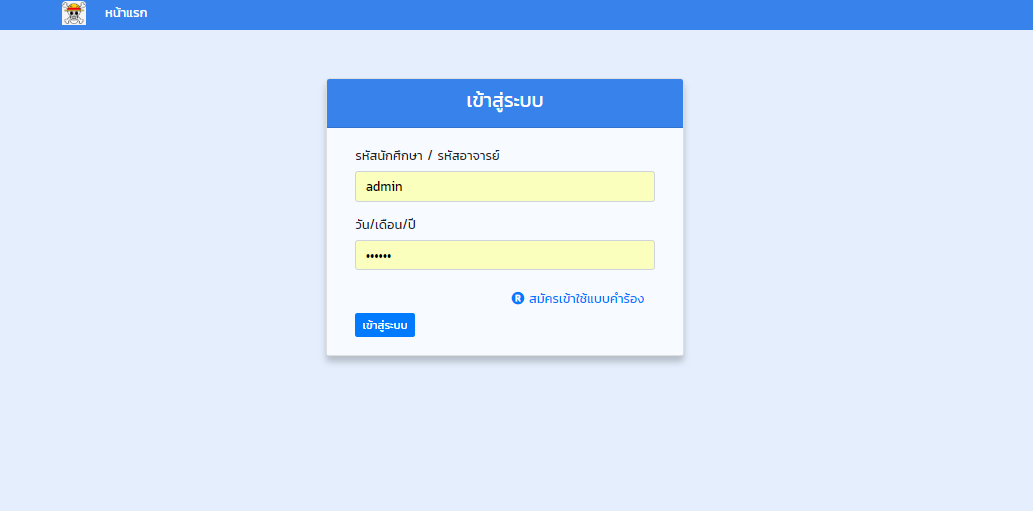
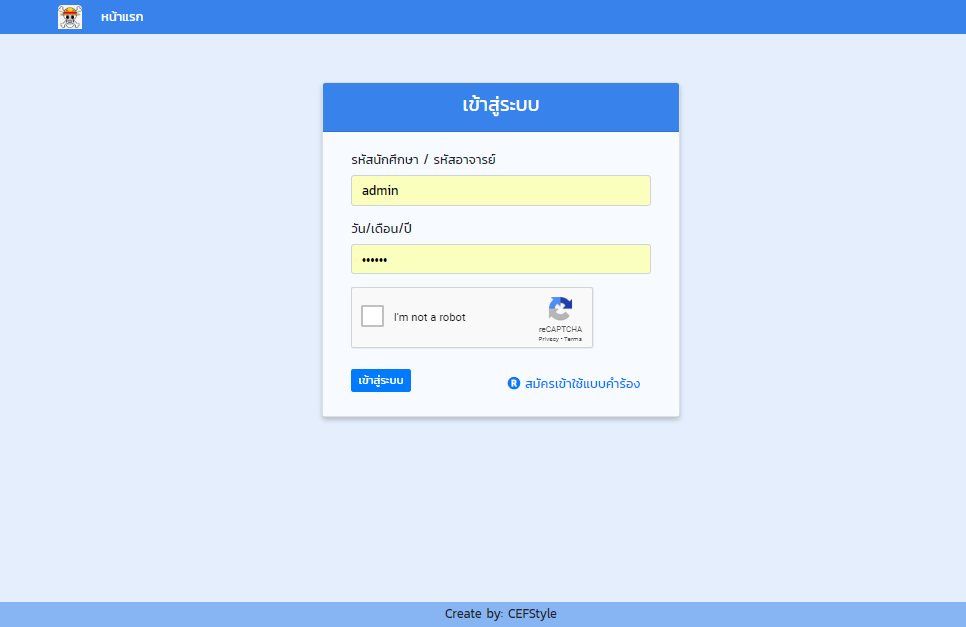
koa

Changed region(s): [[0.3106, 0.1174, 0.7143, 0.7339], [0.0, 0.9393, 1.0, 1.0], [0.0, 0.0, 1.0, 0.0587]]

diff --git a/index.php b/index.php
@@ -102,23 +102,36 @@
                                                 <form action="">
                                                     <div class="form-group">
                                                         <label for="user">รหัสนักศึกษา / รหัสอาจารย์</label>
-                                                        <input type="text" class="form-control" id="user" placeholder="User">
+                                                        <input type="text" class="form-control" id="user" placeholder="ID">
                                                     </div>
                                                     <div class="form-group">
                                                         <label for="Password1">วัน/เดือน/ปี</label>
                                                         <input type="password" class="form-control" id="Password1"
                                                             placeholder="Password">
                                                     </div>
-                                                    <!-- register modal -->
-                                                    <div class="text-right">
+                                                    <!-- check bot -->
+                                                    <div class="g-recaptcha" data-sitekey="6LfGSZIUAAAAAPX_Wv8XdRf8FnwaE4yht4Ee_5RP"></div>
+                                                    <!-- check bot -->
+<br>
 
-                                                        <button type="button" class="btn btn-link" data-toggle="modal"
-                                                            data-target="#modalregis"><i class="fas fa-registered"></i> สมัครเข้าใช้แบบคำร้อง
-                                                        </button>
+
+                                                    <div class="row">
+                                                        <div class="col-lg-4">
+                                                            <button type="submit" class="btn btn-primary btn-sm">เข้าสู่ระบบ</button>
+
+                                                        </div>
+
+                                                        <!-- register modal -->
+                                                        <div class="col-lg-8 text-right">
+                                                            <button type="button" class="btn btn-link" data-toggle="modal"
+                                                                data-target="#modalregis"><i class="fas fa-registered"></i>
+                                                                สมัครเข้าใช้แบบคำร้อง
+                                                            </button>
+                                                        </div>
+                                                        <!-- register modal -->
+
+
                                                     </div>
-                                                    <!-- register modal -->
-
-                                                    <button type="submit" class="btn btn-primary btn-sm">เข้าสู่ระบบ</button>
                                                 </form>
                                                 <!-- form log-in -->
                                             </div>
@@ -241,6 +254,8 @@
     <script src="font/node_modules/jquery/dist/jquery.min.js"></script>
     <script src="font/node_modules/popper.js/dist/popper.min.js"></script>
     <script src="font/node_modules/bootstrap/dist/js/bootstrap.min.js"></script>
+    <script src="https://www.google.com/recaptcha/api.js" async defer></script>
+    
     <script>
         $('#myModal').on('shown.bs.modal', function () {
             $('#myInput').trigger('focus')
@@ -249,3 +264,9 @@
 </body>
 
 </html>
+<!-- {
+  "success": true|false,
+  "challenge_ts": timestamp,  // timestamp of the challenge load (ISO format yyyy-MM-dd'T'HH:mm:ssZZ)
+  "hostname": string,         // the hostname of the site where the reCAPTCHA was solved
+  "error-codes": [...]        // optional
+} -->
